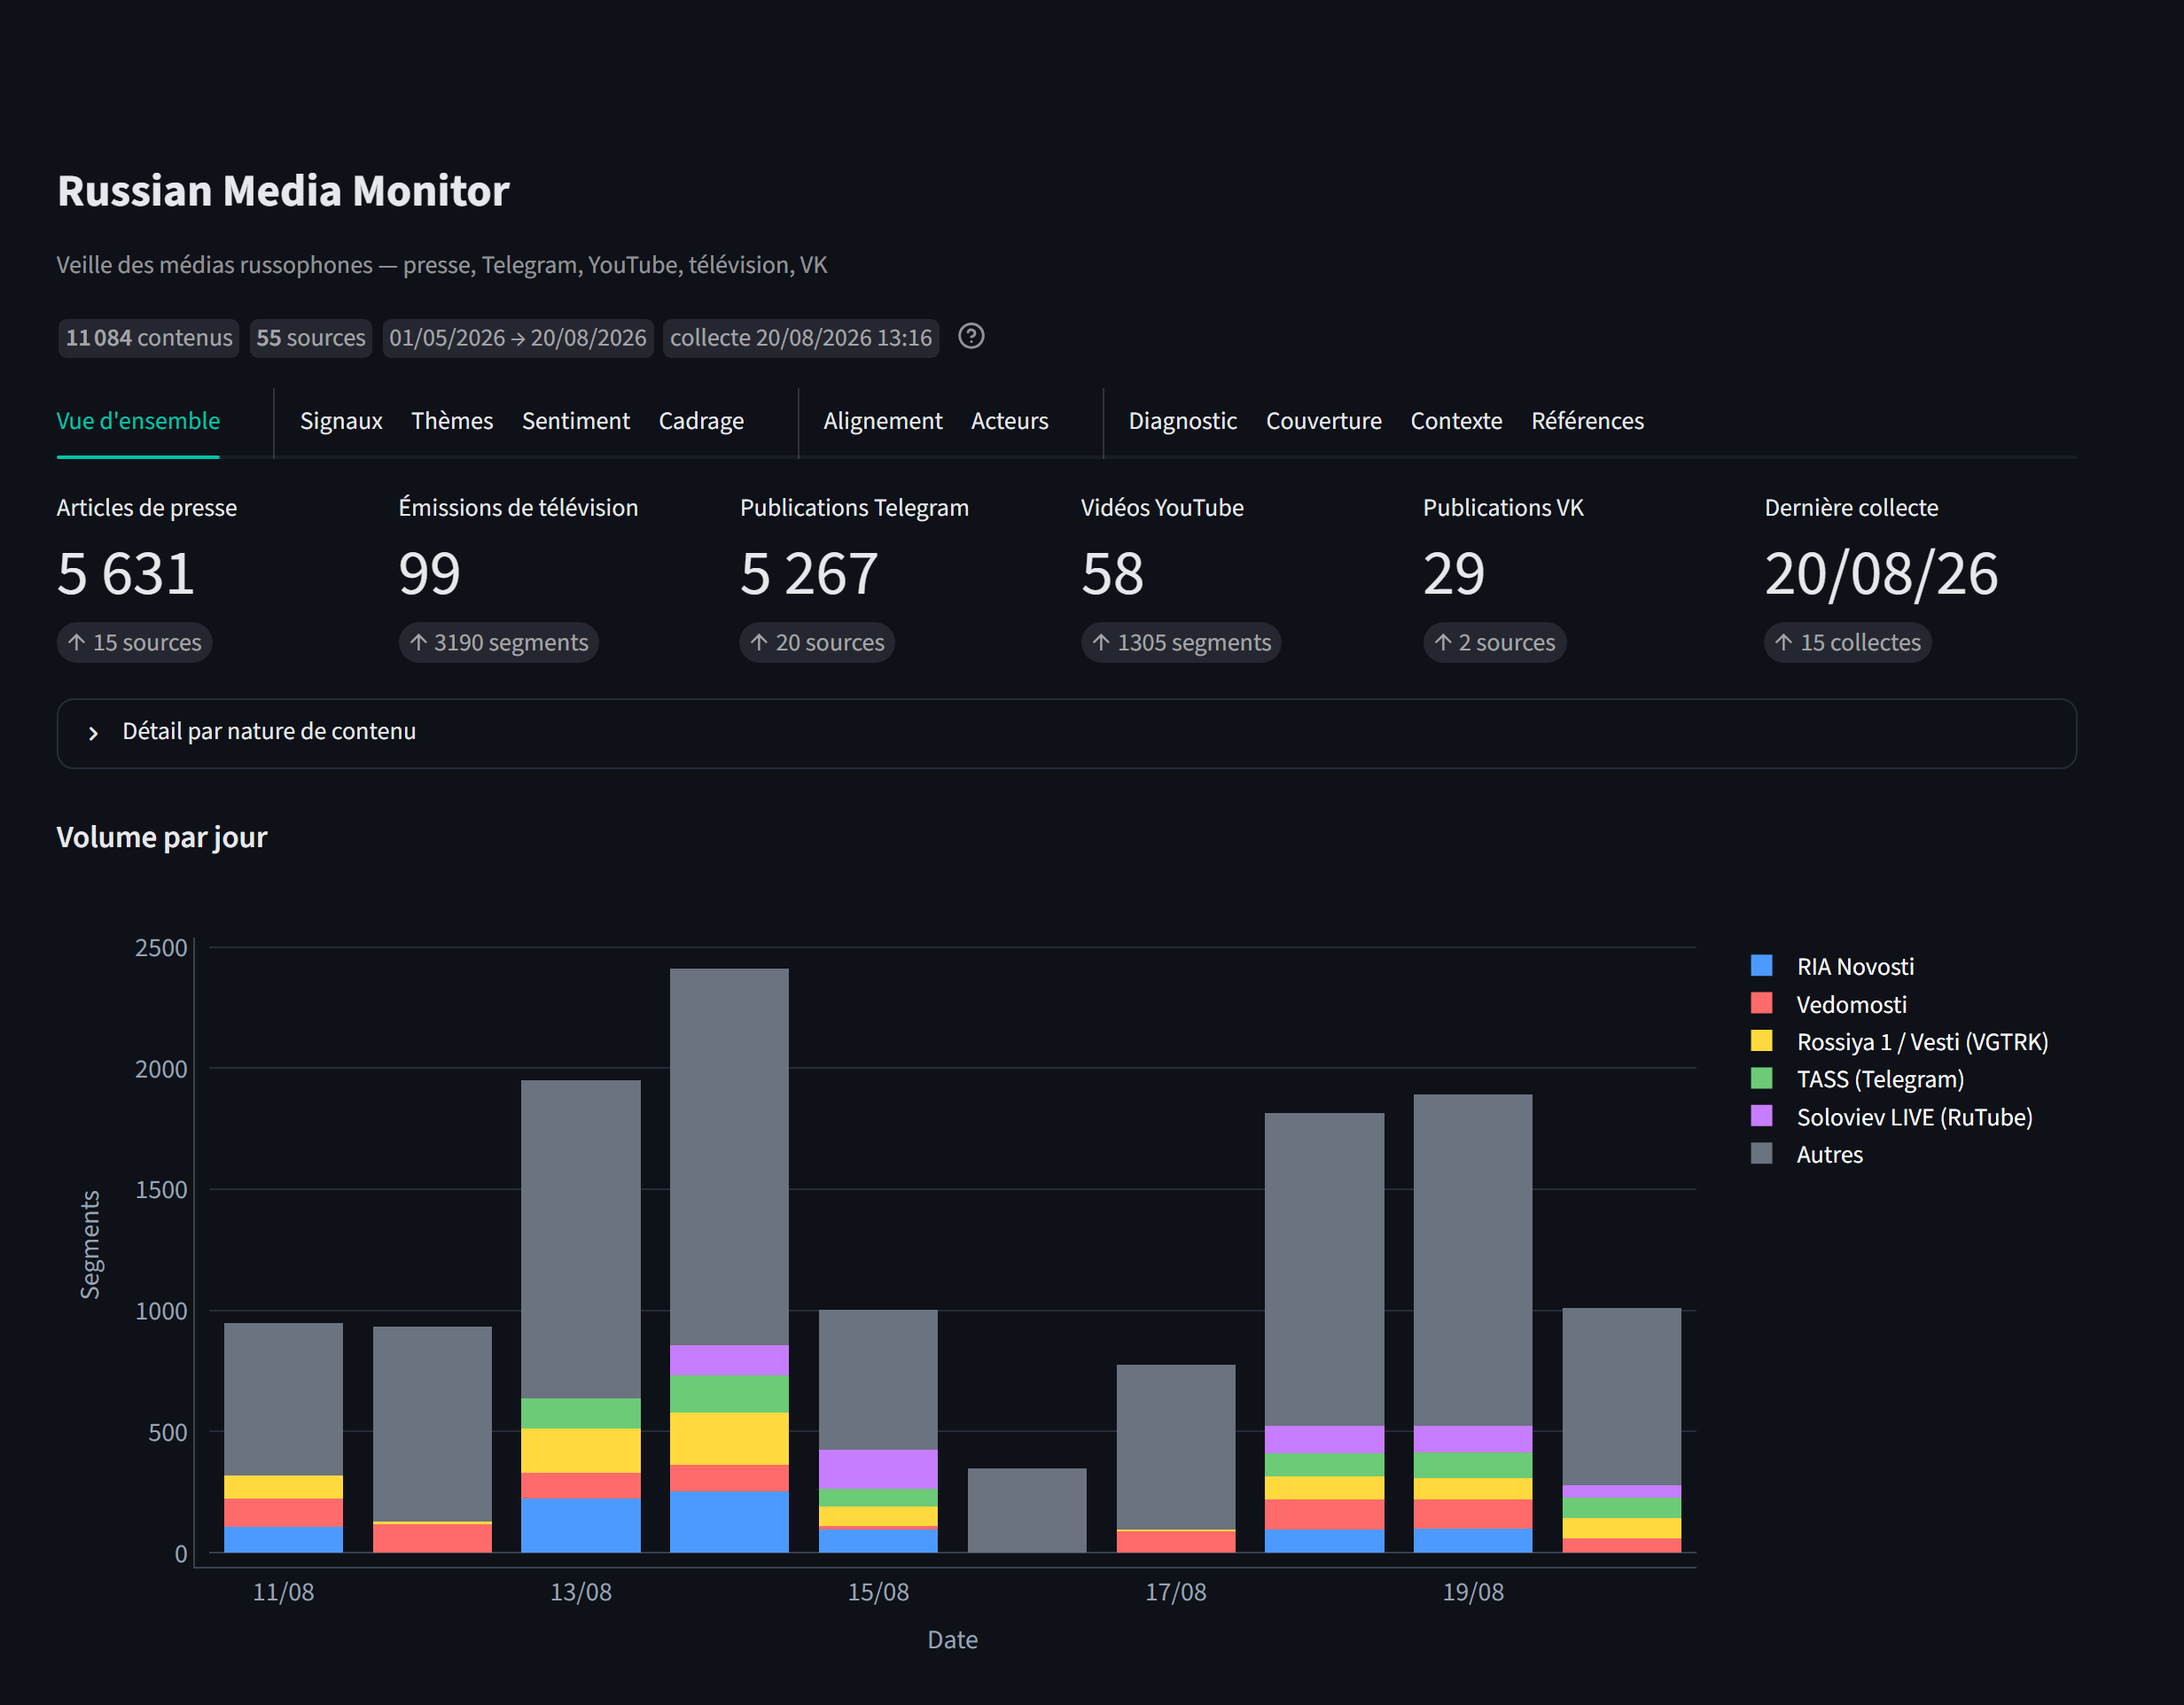
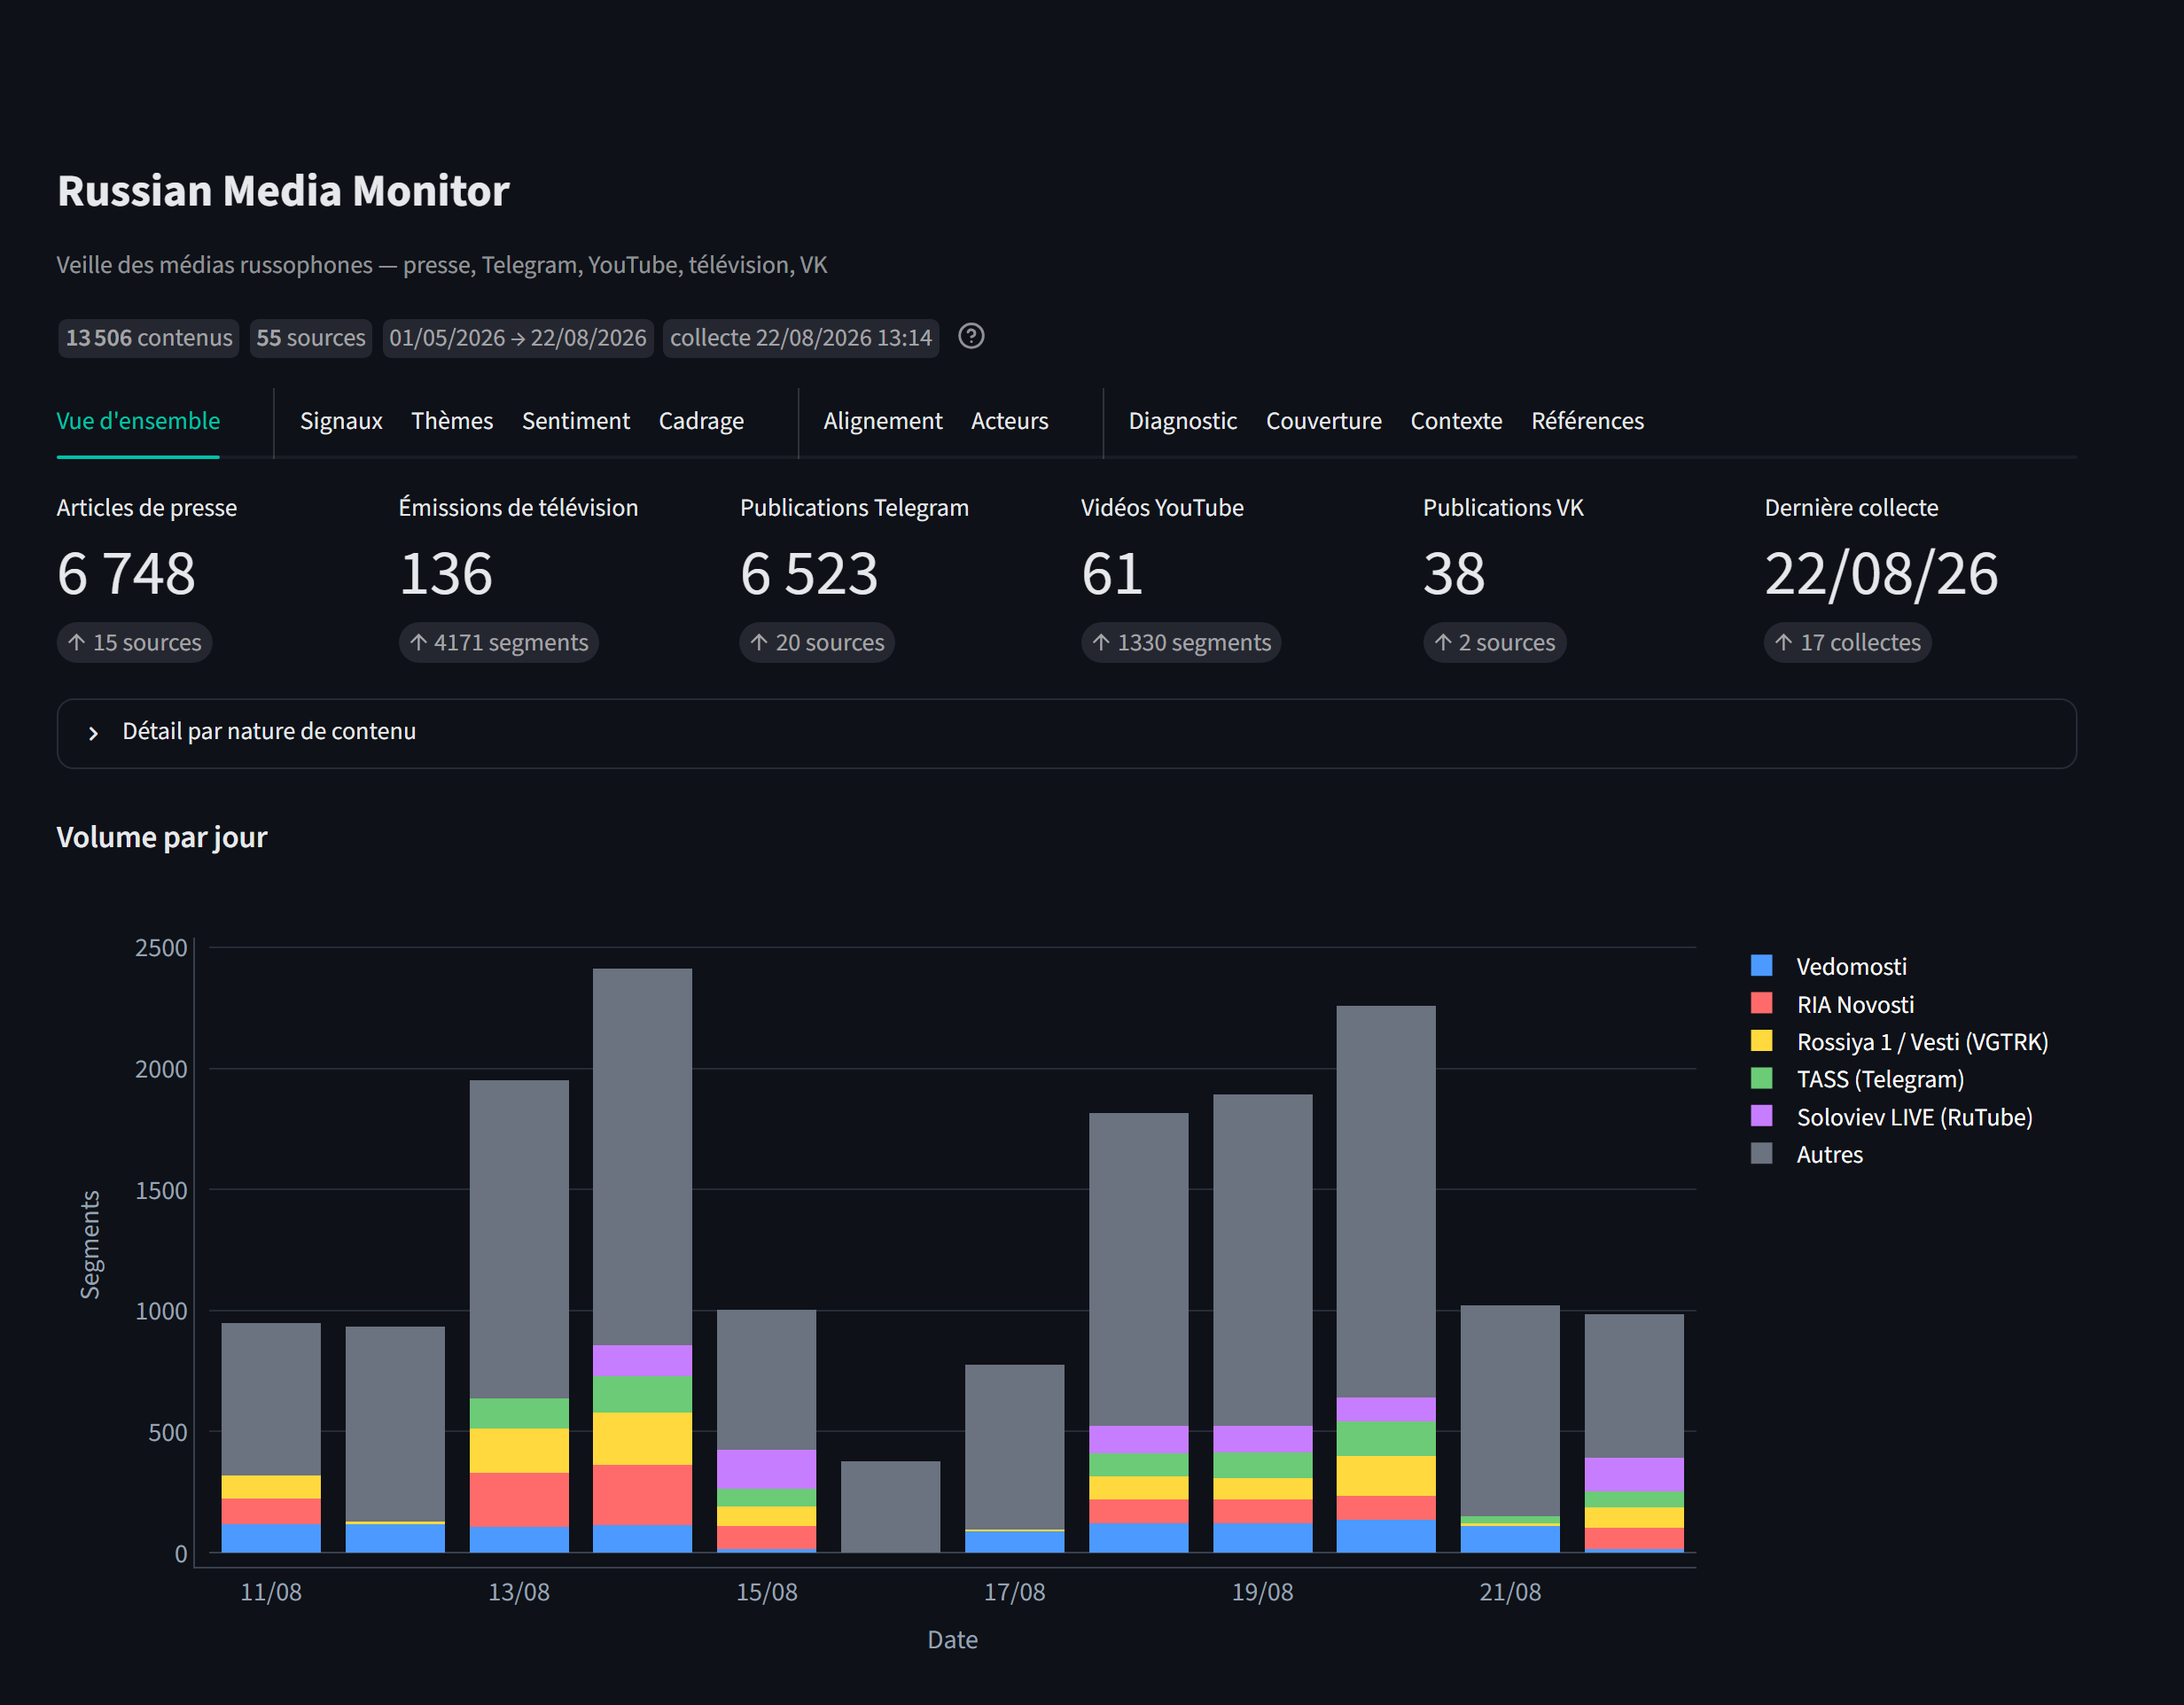
Refresh screenshots

diff --git a/README.md b/README.md
@@ -16,6 +16,10 @@ La carte d'influence situe seize acteurs géopolitiques : taille selon le nombre
 
 Les thèmes sortent d'un clustering des contenus, support par support, sur une fenêtre de 24 h ; chaque barre se décompose par nature de contenu.
 
+![Thèmes jour par jour](assets/themes-par-jour.png)
+
+Chaque journée est regroupée pour elle-même, sur ses seules 24 h : la carte donne la part de chaque thème jour après jour, et un clic sur la frise du dessus filtre tout l'onglet sur une journée.
+
 ![Procédés de persuasion](assets/procedes-persuasion.png)
 
 Les procédés rhétoriques relevés fragment par fragment sur la télévision et YouTube en pourcentage. Les procédés sont choisis sur la base des travaux de Giovanni [Da San Martino](https://scholar.google.com/citations?user=URABLy0AAAAJ&hl=en)
